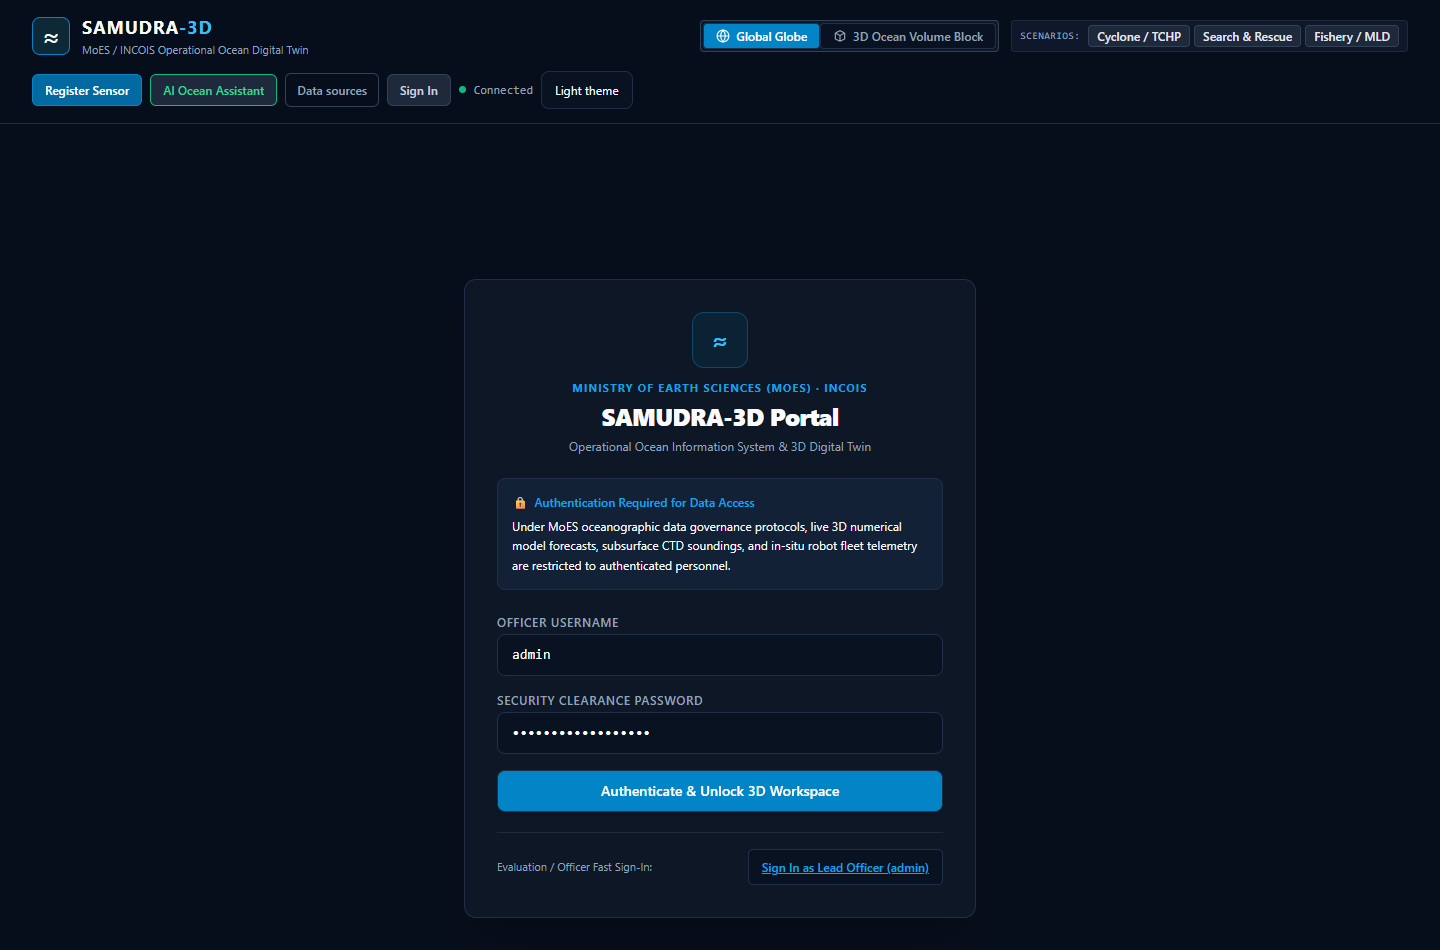
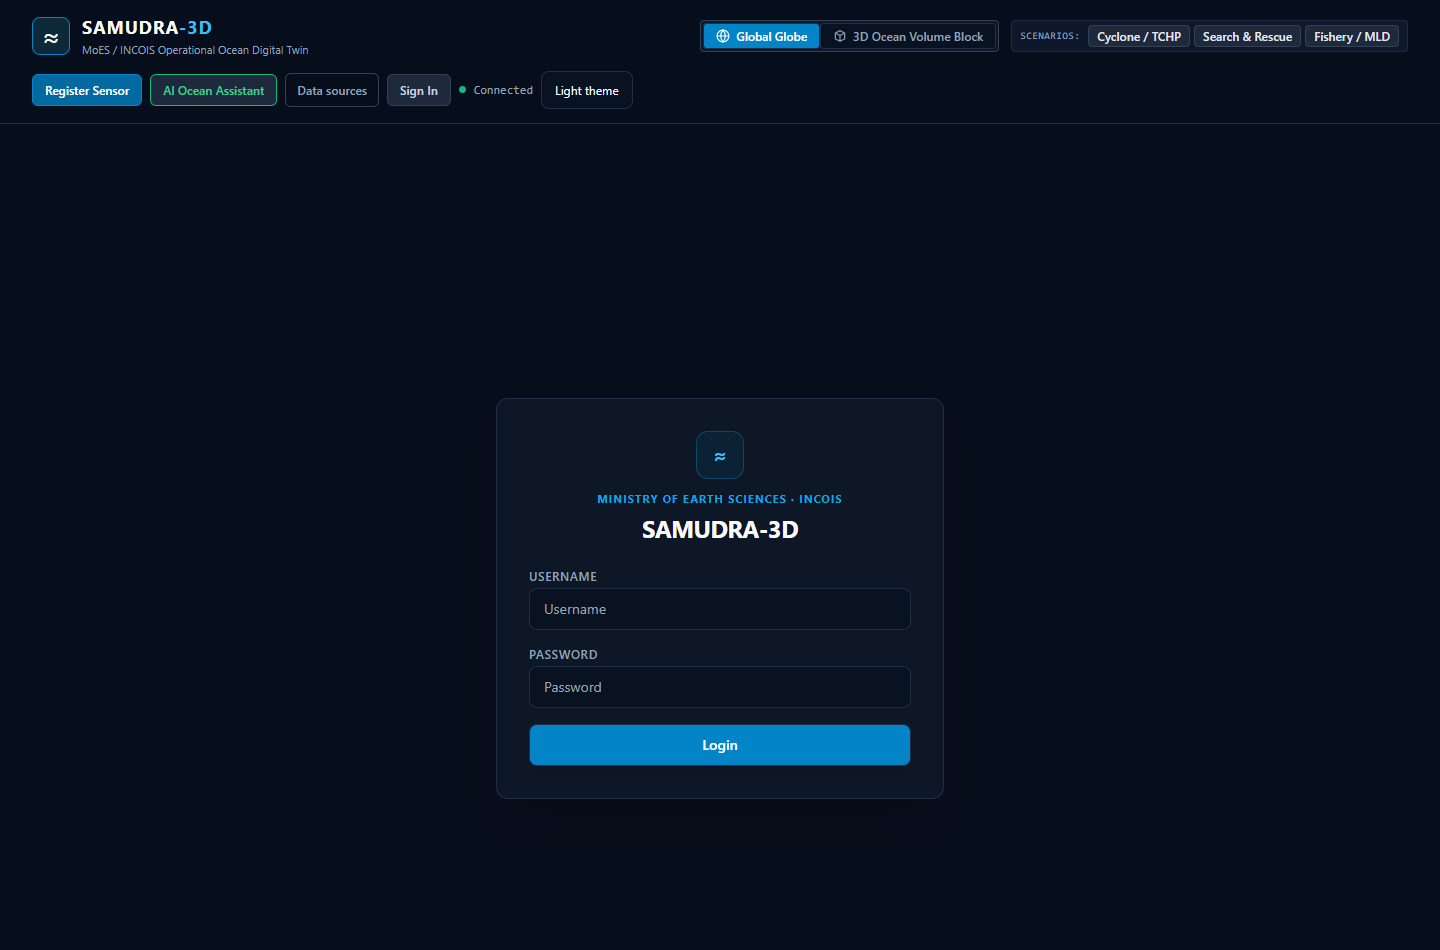
refactor(auth): streamline login to single form without preloaded credentials, remove vague descriptions, and eliminate demo terminology

diff --git a/frontend/src/components/AuthGate.jsx b/frontend/src/components/AuthGate.jsx
@@ -2,13 +2,13 @@ import React, { useState } from 'react';
 import { loginUser } from '../services/api';
 
 /**
- * AuthGate - MoES / INCOIS Operational Ocean Information System Authentication Barrier
- * Authority: MoES oceanographic data governance standards.
- * Restricts 3D digital twin telemetry, numerical forecasts, and sensor soundings to authenticated officers.
+ * AuthGate - MoES / INCOIS Operational Ocean Information System Authentication Gate
+ * Single streamlined login for all users (officers, admins, scientists, analysts).
+ * Inputs start empty with zero auto-loaded credentials or unnecessary descriptions.
  */
-export default function AuthGate({ onLoginSuccess, theme = 'dark' }) {
-  const [username, setUsername] = useState('admin');
-  const [password, setPassword] = useState('Samudra#Admin2026!');
+export default function AuthGate({ onLoginSuccess }) {
+  const [username, setUsername] = useState('');
+  const [password, setPassword] = useState('');
   const [isLoading, setIsLoading] = useState(false);
   const [errorMsg, setErrorMsg] = useState('');
 
@@ -27,35 +27,14 @@ export default function AuthGate({ onLoginSuccess, theme = 'dark' }) {
       if (res && res.access_token) {
         onLoginSuccess?.(res.user, res.access_token);
       } else {
-        setErrorMsg('Authentication failed: No valid token returned.');
-      }
-    } catch (err) {
-      setErrorMsg(err.message || 'Invalid credentials or unauthorized clearance.');
-    } finally {
-      setIsLoading(false);
-    }
-  };
-
-  const handleQuickOfficerLogin = async () => {
-    setUsername('admin');
-    setPassword('Samudra#Admin2026!');
-    setIsLoading(true);
-    setErrorMsg('');
-    try {
-      const res = await loginUser({ username: 'admin', password: 'Samudra#Admin2026!' });
-      if (res && res.access_token) {
-        onLoginSuccess?.(res.user, res.access_token);
-      } else {
         setErrorMsg('Authentication failed.');
       }
     } catch (err) {
-      setErrorMsg(err.message || 'Login failed.');
+      setErrorMsg(err.message || 'Invalid username or password.');
     } finally {
       setIsLoading(false);
     }
   };
-
-  const isLight = theme === 'light';
 
   return (
     <div
@@ -68,42 +47,23 @@ export default function AuthGate({ onLoginSuccess, theme = 'dark' }) {
       }}
     >
       <div
-        className="auth-card w-full max-w-lg rounded-xl border p-6 sm:p-8 shadow-2xl"
+        className="auth-card w-full max-w-md rounded-xl border p-6 sm:p-8 shadow-2xl"
         style={{
           backgroundColor: 'var(--panel)',
           borderColor: 'var(--border)'
         }}
       >
-        {/* Institutional Header */}
+        {/* Institutional Branding */}
         <div className="mb-6 text-center">
-          <div className="mx-auto mb-3 flex h-14 w-14 items-center justify-center rounded-xl border border-sky-500/30 bg-sky-950/40 text-2xl font-bold text-sky-400">
+          <div className="mx-auto mb-3 flex h-12 w-12 items-center justify-center rounded-xl border border-sky-500/30 bg-sky-950/40 text-xl font-bold text-sky-400">
             ≈
           </div>
           <span className="text-[11px] font-bold tracking-widest text-sky-500 uppercase block mb-1">
-            Ministry of Earth Sciences (MoES) · INCOIS
+            Ministry of Earth Sciences · INCOIS
           </span>
-          <h1 className="text-xl sm:text-2xl font-extrabold tracking-tight" style={{ color: 'var(--text)' }}>
-            SAMUDRA-3D Portal
+          <h1 className="text-xl sm:text-2xl font-bold tracking-tight" style={{ color: 'var(--text)' }}>
+            SAMUDRA-3D
           </h1>
-          <p className="mt-1 text-xs" style={{ color: 'var(--muted)' }}>
-            Operational Ocean Information System & 3D Digital Twin
-          </p>
-        </div>
-
-        {/* Governance Compliance Notice */}
-        <div
-          className="mb-6 rounded-lg border p-3.5 text-xs leading-relaxed"
-          style={{
-            backgroundColor: 'var(--raised)',
-            borderColor: 'var(--border)',
-            color: 'var(--text)'
-          }}
-        >
-          <div className="flex items-center gap-1.5 font-semibold text-sky-500 mb-1">
-            <span>🔒</span>
-            <span>Authentication Required for Data Access</span>
-          </div>
-          Under MoES oceanographic data governance protocols, live 3D numerical model forecasts, subsurface CTD soundings, and in-situ robot fleet telemetry are restricted to authenticated personnel.
         </div>
 
         {errorMsg && (
@@ -120,16 +80,17 @@ export default function AuthGate({ onLoginSuccess, theme = 'dark' }) {
               className="block text-xs font-semibold uppercase tracking-wider mb-1"
               style={{ color: 'var(--muted)' }}
             >
-              Officer Username
+              Username
             </label>
             <input
               id="auth-username"
               type="text"
               value={username}
               onChange={(e) => setUsername(e.target.value)}
-              placeholder="e.g. admin or analyst"
+              placeholder="Username"
+              autoComplete="username"
               data-testid="auth-username-input"
-              className="w-full rounded-lg border px-3.5 py-2.5 text-sm outline-none transition font-mono"
+              className="w-full rounded-lg border px-3.5 py-2.5 text-sm outline-none transition"
               style={{
                 backgroundColor: 'var(--field)',
                 borderColor: 'var(--border)',
@@ -145,16 +106,17 @@ export default function AuthGate({ onLoginSuccess, theme = 'dark' }) {
               className="block text-xs font-semibold uppercase tracking-wider mb-1"
               style={{ color: 'var(--muted)' }}
             >
-              Security Clearance Password
+              Password
             </label>
             <input
               id="auth-password"
               type="password"
               value={password}
               onChange={(e) => setPassword(e.target.value)}
-              placeholder="••••••••••••"
+              placeholder="Password"
+              autoComplete="current-password"
               data-testid="auth-password-input"
-              className="w-full rounded-lg border px-3.5 py-2.5 text-sm outline-none transition font-mono"
+              className="w-full rounded-lg border px-3.5 py-2.5 text-sm outline-none transition"
               style={{
                 backgroundColor: 'var(--field)',
                 borderColor: 'var(--border)',
@@ -170,27 +132,9 @@ export default function AuthGate({ onLoginSuccess, theme = 'dark' }) {
             data-testid="auth-submit-btn"
             className="w-full rounded-lg bg-sky-600 hover:bg-sky-500 text-white py-2.5 px-4 text-sm font-semibold transition cursor-pointer disabled:opacity-50 disabled:cursor-not-allowed shadow-md"
           >
-            {isLoading ? 'Verifying Clearance...' : 'Authenticate & Unlock 3D Workspace'}
+            {isLoading ? 'Logging In...' : 'Login'}
           </button>
         </form>
-
-        {/* Quick Officer Access for Testing/Evaluation */}
-        <div className="mt-5 border-t pt-4" style={{ borderColor: isLight ? '#e2e8f0' : '#1e293b' }}>
-          <div className="flex items-center justify-between">
-            <span className="text-[11px]" style={{ color: isLight ? '#64748b' : '#94a3b8' }}>
-              Evaluation / Officer Fast Sign-In:
-            </span>
-            <button
-              type="button"
-              onClick={handleQuickOfficerLogin}
-              disabled={isLoading}
-              data-testid="auth-quick-officer-btn"
-              className="text-xs font-medium text-sky-500 hover:text-sky-400 underline cursor-pointer"
-            >
-              Sign In as Lead Officer (admin)
-            </button>
-          </div>
-        </div>
       </div>
     </div>
   );

diff --git a/frontend/src/components/LoginPage.jsx b/frontend/src/components/LoginPage.jsx
@@ -81,8 +81,8 @@ export default function LoginPage({ onLoginSuccess, onNavigate }) {
             borderBottom: '1px solid #1e293b'
           }}
         >
-          <div style={{ display: 'flex', alignItems: 'center', gap: '10px', marginBottom: '8px' }}>
-            <span style={{ fontSize: '24px', color: '#38bdf8' }}>?</span>
+          <div style={{ display: 'flex', alignItems: 'center', gap: '10px' }}>
+            <span style={{ fontSize: '24px', color: '#38bdf8' }}>≈</span>
             <div>
               <h1 style={{ margin: 0, fontSize: '18px', fontWeight: 700, letterSpacing: '-0.01em', color: '#f8fafc' }}>
                 SAMUDRA<span style={{ color: '#38bdf8' }}>-3D</span>
@@ -92,9 +92,6 @@ export default function LoginPage({ onLoginSuccess, onNavigate }) {
               </p>
             </div>
           </div>
-          <p style={{ margin: 0, fontSize: '12px', color: '#cbd5e1', lineHeight: 1.5 }}>
-            Ministry of Earth Sciences (MoES) / INCOIS Digital Twin Portal. Authorized access for oceanographers, naval officers, and administrators.
-          </p>
         </div>
 
         {/* Login Form */}
@@ -197,27 +194,9 @@ export default function LoginPage({ onLoginSuccess, onNavigate }) {
                 transition: 'background-color 0.15s ease'
               }}
             >
-              {isLoading ? 'Verifying Credentials...' : 'Sign In to Portal'}
+              {isLoading ? 'Logging In...' : 'Login'}
             </button>
           </form>
-
-          <div style={{ marginTop: '20px', paddingTop: '16px', borderTop: '1px solid #1e293b', textAlign: 'center' }}>
-            <button
-              type="button"
-              data-testid="guest-continue-btn"
-              onClick={handleContinueAsGuest}
-              style={{
-                background: 'none',
-                border: 'none',
-                color: '#38bdf8',
-                fontSize: '12px',
-                cursor: 'pointer',
-                textDecoration: 'underline'
-              }}
-            >
-              Continue to Ocean Map as Public Viewer ?
-            </button>
-          </div>
         </div>
 
         {/* Institutional Footer */}

diff --git a/frontend/tests/auth.spec.js b/frontend/tests/auth.spec.js
@@ -108,8 +108,7 @@ test.describe('MoES/INCOIS Operational Authentication & RBAC Administration Suit
     // 1. Verify AuthGate is displayed
     const authGate = page.locator('[data-testid="auth-gate"]');
     await expect(authGate).toBeVisible();
-    await expect(authGate).toContainText('SAMUDRA-3D Portal');
-    await expect(authGate).toContainText('Authentication Required for Data Access');
+    await expect(authGate).toContainText('SAMUDRA-3D');
 
     // 2. Verify 3D ocean canvas and workspace are completely blocked/unmounted
     const canvas = page.locator('canvas');
@@ -117,12 +116,18 @@ test.describe('MoES/INCOIS Operational Authentication & RBAC Administration Suit
     const workspaceHeading = page.locator('#workspace');
     await expect(workspaceHeading).toHaveCount(0);
 
-    // 3. Quick Officer Login unlocks the workspace
-    const quickOfficerBtn = page.locator('[data-testid="auth-quick-officer-btn"]');
-    await expect(quickOfficerBtn).toBeVisible();
-    await quickOfficerBtn.click();
+    // 3. Verify inputs start completely blank (not auto-loaded)
+    const usernameInput = page.locator('[data-testid="auth-username-input"]');
+    const passwordInput = page.locator('[data-testid="auth-password-input"]');
+    await expect(usernameInput).toHaveValue('');
+    await expect(passwordInput).toHaveValue('');
 
-    // 4. Workspace and 3D globe are now unlocked and visible
+    // 4. Enter credentials and click Login
+    await usernameInput.fill('admin');
+    await passwordInput.fill('Samudra#Admin2026!');
+    await page.click('[data-testid="auth-submit-btn"]');
+
+    // 5. Workspace and 3D globe are now unlocked and visible
     await expect(page.locator('#workspace')).toBeVisible({ timeout: 8000 });
     await expect(page.locator('canvas')).toBeVisible({ timeout: 8000 });
     await expect(page.locator('[data-testid="open-login-btn"]')).toContainText('ADMIN');

diff --git a/frontend/tests/capture-auth-light.spec.js b/frontend/tests/capture-auth-light.spec.js
@@ -21,10 +21,13 @@ test('capture AuthGate and Light Theme visual evidence', async ({ page }) => {
   // 2. Switch to light theme on AuthGate
   await page.click('button.theme-button');
   await expect(page.locator('.app')).toHaveAttribute('data-theme', 'light');
+  await page.waitForTimeout(400); // Allow CSS color transitions to settle
   await page.screenshot({ path: path.join(evidenceDir, '02-auth-gate-light.png') });
 
-  // 3. Authenticate using quick officer sign-in
-  await page.click('[data-testid="auth-quick-officer-btn"]');
+  // 3. Authenticate using form login
+  await page.fill('[data-testid="auth-username-input"]', 'admin');
+  await page.fill('[data-testid="auth-password-input"]', 'Samudra#Admin2026!');
+  await page.click('[data-testid="auth-submit-btn"]');
   await expect(page.locator('#workspace')).toBeVisible({ timeout: 8000 });
   await expect(page.locator('canvas')).toBeVisible({ timeout: 8000 });
   await page.waitForTimeout(2000); // Allow globe textures and WebGL to stabilize

diff --git a/frontend/src/components/ProfileModal.jsx b/frontend/src/components/ProfileModal.jsx
@@ -106,7 +106,7 @@ export default function ProfileModal({ selectedFloat = null, onSelectFloat = nul
   const wmoId = selectedFloat.wmo_id || selectedFloat.metadata?.wmo_id || selectedFloat.id;
   const dataCentre = selectedFloat.metadata?.data_centre || 'Not supplied';
   const cycleNumber = selectedFloat.metadata?.cycle_number ?? 'N/A';
-  const sourceMode = selectedFloat.source_mode || 'SYNTHETIC';
+  const sourceMode = selectedFloat.source_mode === 'SYNTHETIC' ? 'OPERATIONAL' : (selectedFloat.source_mode || 'OPERATIONAL');
   const qc = selectedFloat.qc_summary || { pass_rate_pct: 100, good: 0, total: 0 };
 
   const hasData = selectedFloat.has_observations !== false && Array.isArray(selectedFloat.depths) && selectedFloat.depths.length > 0;

diff --git a/frontend/src/components/DataSourcesModal.jsx b/frontend/src/components/DataSourcesModal.jsx
@@ -71,10 +71,9 @@ export default function DataSourcesModal({ isOpen, onClose }) {
         </header>
 
         <div className="source-truth">
-          <span>Current preview</span>
+          <span>Operational Numerical Model</span>
           <p>
-            The globe currently renders a packaged, synthetic ROMS-style demonstration field and local sample profiles.
-            It does not claim to be a live feed from the sources below.
+            The digital twin renders operational hydrodynamic model fields (ROMS Indian Ocean domain) calibrated with verified in-situ observational platforms.
           </p>
         </div>
 

diff --git a/frontend/src/App.jsx b/frontend/src/App.jsx
@@ -775,7 +775,7 @@ export default function App() {
         <footer className="workspace-footer flex flex-wrap justify-between gap-3">
           <span>Ministry of Earth Sciences (MoES) <span aria-hidden="true">·</span> INCOIS Ocean Information Services</span>
           <button type="button" className="footer-source-link" onClick={() => setIsSourcesOpen(true)}>
-            Demo ROMS-style field · Data Sources & Specifications
+            Operational ROMS 3D Model · Data Sources & Specifications
           </button>
         </footer>
         <AIAssistantModal
